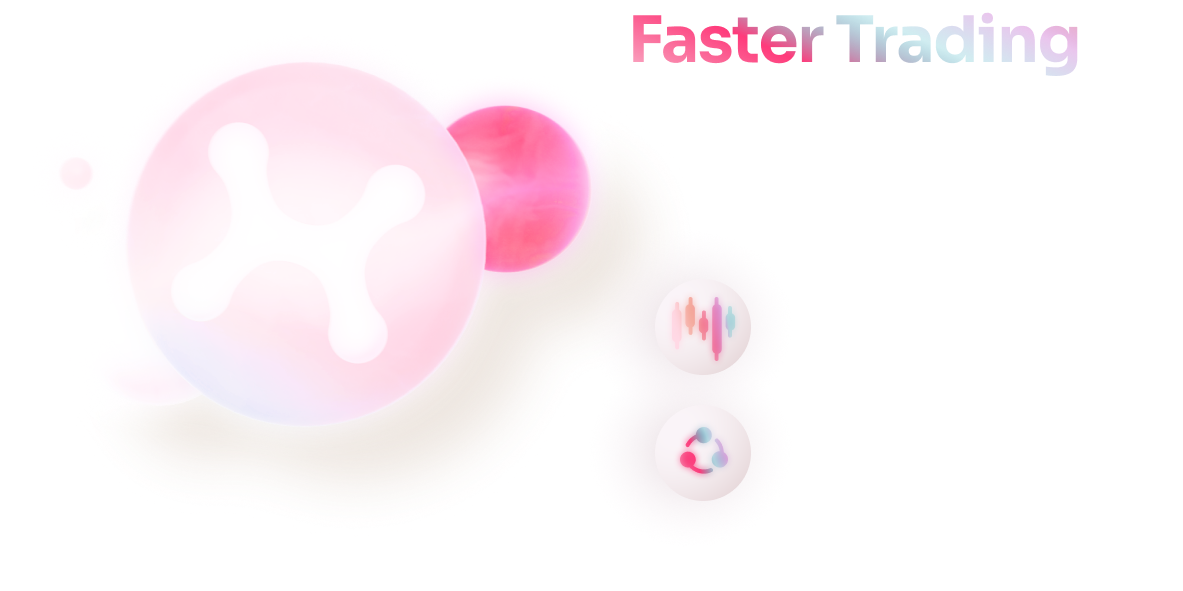
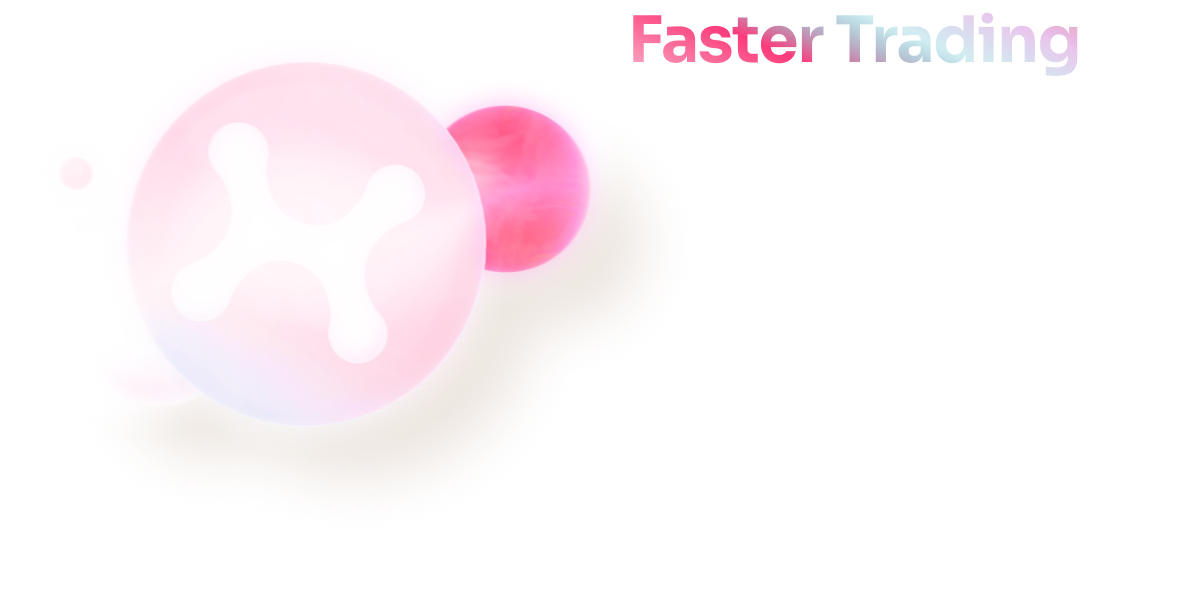
feat: correct version fonts

Changed region(s): [[0.5478, 0.4873, 0.6391, 0.6396], [0.5478, 0.7005, 0.6391, 0.8528]]

diff --git a/src/views/About.vue b/src/views/About.vue
@@ -2,59 +2,96 @@
   <div class="layout">
     <div class="content">
       <div class="about-1">
-        <img src="@/assets/about/about01.png" draggable="false" class="img unselectable"/>
+        <img src="@/assets/about/about01.png" draggable="false" class="img unselectable" />
         <div class="about-1-text">
-          <span class="text">Cross-chain exchange of assets, simple creation and listing of new assets, and the easiest swaps ever. The interoperable future of Polkadot is here and we are at the forefront!</span>
+          <span class="text">Cross-chain exchange of assets, simple creation and listing of new assets, and the easiest
+            swaps ever. The interoperable future of Polkadot is here and we are at the forefront!</span>
         </div>
-        <img src="@/assets/about/web3.png" draggable="false" class="web3 unselectable"/>
+        <img src="@/assets/about/web3.png" draggable="false" class="web3 unselectable" />
       </div>
       <div class="about-2">
-        <img src="@/assets/about/about02.png" draggable="false" class="unselectable" style="width: 60%">
+        <img src="@/assets/about/about02.png" draggable="false" class="unselectable">
         <div class="about-2-text-1">
-          <span class="text">Polkaswap is a non-custodial, cross-chain AMM DEX protocol for swapping tokens based on Polkadot and Kusama relay chains, Polkadot and Kusama parachains, and blockchains directly connected via bridges.</span>
+          <span class="text">Polkaswap is a non-custodial, cross-chain AMM DEX protocol for swapping tokens based on
+            Polkadot and Kusama relay chains, Polkadot and Kusama parachains, and blockchains directly connected via
+            bridges.</span>
         </div>
         <div class="about-2-text-2">
-          <span class="text">Polkaswap removes trusted intermediaries and provides the opportunity for faster trading</span>
+          <div class="bubble-block">
+            <img src="@/assets/about/about02-1.png" draggable="false" class="unselectable" style="width: 30%">
+            <span class="text">Polkaswap removes trusted intermediaries and provides the opportunity for faster
+              trading</span>
+          </div>
         </div>
         <div class="about-2-text-3">
-          <span class="text">Polkaswap is a community project and devs collaborate on the open source code using the <a href="https://en.wikipedia.org/wiki/BSD_licenses#4-clause_license_(original_%22BSD_License%22)" title="BSD 4-clause license">BSD 4-clause license</a></span>
+          <div class="bubble-block">
+            <img src="@/assets/about/about02-2.png" draggable="false" class="unselectable" style="width: 30%">
+            <span class="text">Polkaswap is a community project and devs collaborate on the open source code using the
+              <a href="https://en.wikipedia.org/wiki/BSD_licenses#4-clause_license_(original_%22BSD_License%22)" title="BSD 4-clause license">BSD 4-clause license</a></span>
+          </div>
         </div>
       </div>
       <div class="about-3">
-        <img src="@/assets/about/about03.png" draggable="false" class="unselectable" style="width: 60%">
+        <img src="@/assets/about/about03.png" draggable="false" class="unselectable">
         <div class="about-3-text-1">
-          <span class="text">Polkaswap combines multiple liquidity sources under a common liquidity aggregation algorithm, operating completely on-chain, in a trustless and decentralized way.</span>
+          <span class="text">Polkaswap combines multiple liquidity sources under a common liquidity aggregation
+            algorithm, operating completely on-chain, in a trustless and decentralized way.</span>
         </div>
         <div class="about-3-text-2">
-          <span class="text">When traders call the swap function, the liquidity aggregation algorithm will fill orders using the best offers across all liquidity sources. Liquidity sources can be other DEXs, order books, or other API-driven sources.</span>
+          <div class="bubble-block">
+            <img src="@/assets/about/about03-1.png" draggable="false" class="unselectable" style="width: 30%">
+            <span class="text">When traders call the swap function, the liquidity aggregation algorithm will fill orders
+              using the best offers across all liquidity sources. Liquidity sources can be other DEXs, order books, or
+              other API-driven sources.</span>
+          </div>
         </div>
         <div class="about-3-text-3">
-          <span class="text">Because Polkaswap is an open-source project, anyone can add more liquidity sources by making contributions to the Polkaswap codebase.</span>
+          <div class="bubble-block">
+            <img src="@/assets/about/about03-2.png" draggable="false" class="unselectable" style="width: 30%">
+            <span class="text">Because Polkaswap is an open-source project, anyone can add more liquidity sources by
+              making contributions to the Polkaswap codebase.</span>
+          </div>
         </div>
       </div>
       <div class="about-4">
-        <img src="@/assets/about/about04.png" draggable="false" class="unselectable" style="width: 60%">
+        <img src="@/assets/about/about04.png" draggable="false" class="unselectable">
         <div class="about-4-text-1">
-          <span class="text">Go beyond the limits of current DEXs by adding tokens from the Polkadot ecosystem as well as other blockchains.</span>
+          <span class="text">Go beyond the limits of current DEXs by adding tokens from the Polkadot ecosystem as well
+            as other blockchains.</span>
         </div>
         <div class="about-4-text-2">
-          <span class="text">Create, list and trade your own tokens on the SORA network.</span>
+          <div class="bubble-block">
+            <img src="@/assets/about/about04-1.png" draggable="false" class="unselectable" style="width: 30%">
+            <span class="text">Create, list and trade your own tokens on the SORA network.</span>
+          </div>
         </div>
         <div class="about-4-text-3">
-          <span class="text">Our core infrastructure uses Parity Substrate, which is more scalable than Ethereum, and does not use expensive mining for consensus.</span>
+          <div class="bubble-block">
+            <img src="@/assets/about/about04-2.png" draggable="false" class="unselectable" style="width: 30%">
+            <span class="text">Our core infrastructure uses Parity Substrate, which is more scalable than Ethereum, and
+              does not use expensive mining for consensus.</span>
+          </div>
         </div>
       </div>
       <div class="about-5">
-        <img src="@/assets/about/about05.png" draggable="false" class="unselectable" style="width: 60%">
+        <img src="@/assets/about/about05.png" draggable="false" class="unselectable">
         <div class="about-5-text-1">
-          <span class="text">PSWAP was created by community governance by voting on its release. It is a utility and governance token used to reward liquidity providers on Polkaswap. Unlike most other reward tokens, PSWAP is burned with transactions and decreases in supply over time.</span>
+          <span class="text">PSWAP was created by community governance by voting on its release. It is a utility and
+            governance token used to reward liquidity providers on Polkaswap. Unlike most other reward tokens, PSWAP is
+            burned with transactions and decreases in supply over time.</span>
         </div>
         <div class="about-5-text-2">
-          <span class="text">The 0.3% fee for every swap on the Polkaswap DEX is used to buy back PSWAP tokens, which are then burned. At first, 90% of burned PSWAP tokens are reminted to allocate to liquidity providers, but with time this percentage will decrease to 35% after 4 years.</span>
+          <div class="bubble-block">
+            <img src="@/assets/about/about05-1.png" draggable="false" class="unselectable" style="width: 30%">
+            <span class="text">The 0.3% fee for every swap on the Polkaswap DEX is used to buy back PSWAP tokens, which
+              are then burned. At first, 90% of burned PSWAP tokens are reminted to allocate to liquidity providers, but
+              with time this percentage will decrease to 35% after 4 years.</span>
+          </div>
         </div>
-        <div class="about-5-text-3">
+        <!-- <div class="about-5-text-3">
+          <img src="@/assets/about/about05-2.png" draggable="false" class="unselectable">
           <span class="text"></span>
-        </div>
+        </div> -->
       </div>
       <div class="about-6">
         <img src="@/assets/about/about06.png" draggable="false" class="unselectable" style="width: 70%; cursor: pointer;">
@@ -63,17 +100,20 @@
         <div class="about-7-part" @click="openLink('https://sora.org/validator')">
           <img src="@/assets/about/about07-1.png" draggable="false" class="unselectable icon">
           <span class="title">Become a SORA Validator<img src="@/assets/about/about07-3.png" class="link"></span>
-          <span class="text">Secure the future of the SORA network and decentralized apps like Polkaswap, and earn rewards along the way by becoming a SORA validator.</span>
+          <span class="text">Secure the future of the SORA network and decentralized apps like Polkaswap, and earn
+            rewards along the way by becoming a SORA validator.</span>
         </div>
         <div class="about-7-part" @click="openLink('https://sora.org')">
           <img src="@/assets/about/about07-2.png" draggable="false" class="unselectable icon">
           <span class="title">Connect a Chain to SORA<img src="@/assets/about/about07-3.png" class="link"></span>
-          <span class="text">Grow the decentralized world economy by connecting more chains to SORA and Polkaswap using the HASHI bridge protocol.</span>
+          <span class="text">Grow the decentralized world economy by connecting more chains to SORA and Polkaswap using
+            the HASHI bridge protocol.</span>
         </div>
       </div>
       <div class="about-8">
-        <img src="@/assets/about/about08.png" draggable="false" class="unselectable" style="width: 60%">
-        <span class="text" style="width: 55%; text-align: center;">Polkaswap is built on the SORA Network, focusing on interoperability to connect the rest of the crypto ecosystem to Polkadot.</span>
+        <img src="@/assets/about/about08.png" draggable="false" class="unselectable" style="width: 65%">
+        <span class="text" style="width: 55%; text-align: center;">Polkaswap is built on the SORA Network, focusing on
+          interoperability to connect the rest of the crypto ecosystem to Polkadot.</span>
       </div>
     </div>
   </div>
@@ -93,6 +133,13 @@ export default class About extends Mixins(TranslationMixin) {
 </script>
 
 <style lang="scss" scoped>
+@mixin backgroundImageWidth {
+  &>:first-child {
+    width: 80%;
+    min-width: 800px;
+  }
+}
+
 .content {
   display: flex;
   flex-direction: column;
@@ -104,6 +151,7 @@ export default class About extends Mixins(TranslationMixin) {
   user-select: none;
 }
 .img {
+  min-width: 1200px;
   max-width: 1600px;
   width: 100%;
 }
@@ -115,13 +163,24 @@ export default class About extends Mixins(TranslationMixin) {
   right: 5%;
 }
 
+.bubble-block {
+  display: flex;
+  align-items: center;
+
+  &>:first-child {
+    max-width: 120px;
+  }
+}
+
 .about {
+  margin: auto;
   &-1 {
     display: flex;
     justify-content: center;
     align-items: center;
     flex-direction: column;
     position: relative;
+
     &-text {
       top: 60%;
       width: 35%;
@@ -131,116 +190,133 @@ export default class About extends Mixins(TranslationMixin) {
     }
   }
   &-2 {
+    min-width: 800px;
+    padding-top: 5rem;
     display: flex;
     justify-content: center;
     align-items: center;
     flex-direction: column;
     position: relative;
+
+    @include backgroundImageWidth;
+
     &-text-1 {
-      top: 16%;
-      right: 12.5%;
-      width: 35%;
+      top: 26%;
+      right: 7.5%;
+      width: 40%;
 
       position: absolute;
     }
     &-text-2 {
-      top: 47%;
-      right: 20.5%;
-      width: 20%;
+      top: 38%;
+      right: 5.5%;
+      width: 45%;
 
       position: absolute;
     }
     &-text-3 {
-      top: 68%;
-      right: 20.5%;
-      width: 20%;
+      top: 54%;
+      right: 5.5%;
+      width: 45%;
 
       position: absolute;
     }
   }
   &-3 {
+    min-width: 800px;
     display: flex;
     justify-content: center;
     align-items: center;
     flex-direction: column;
     position: relative;
+
+    @include backgroundImageWidth;
+
     &-text-1 {
       top: 49.5%;
-      left: 22%;
-      width: 28%;
+      left: 12.5%;
+      width: 35%;
 
       position: absolute;
     }
     &-text-2 {
-      top: 65%;
-      left: 28.5%;
-      width: 37%;
+      top: 60%;
+      left: 9%;
+      width: 55%;
 
       position: absolute;
     }
     &-text-3 {
-      top: 81.5%;
-      left: 28.5%;
-      width: 34%;
+      top: 75%;
+      left: 9%;
+      width: 55%;
 
       position: absolute;
     }
   }
   &-4 {
+    min-width: 800px;
     display: flex;
     justify-content: center;
     align-items: center;
     flex-direction: column;
     position: relative;
+
+    @include backgroundImageWidth;
+
     &-text-1 {
       top: 20%;
-      right: 25%;
-      width: 23%;
+      right: 7.5%;
+      width: 40%;
 
       position: absolute;
     }
     &-text-2 {
-      top: 49%;
-      right: 20.5%;
-      width: 20%;
+      top: 27%;
+      right: 5.5%;
+      width: 45%;
 
       position: absolute;
     }
     &-text-3 {
-      top: 66%;
-      right: 20.5%;
-      width: 20%;
+      top: 52%;
+      right: 5.5%;
+      width: 45%;
 
       position: absolute;
     }
   }
   &-5 {
+    min-width: 800px;
     display: flex;
-    justify-content: center;
+    justify-content: flex-start;
     align-items: center;
     flex-direction: column;
     position: relative;
+
+    @include backgroundImageWidth;
+
     &-text-1 {
       top: 30%;
-      right: 35.5%;
-      width: 31%;
+      right: 32%;
+      width: 40%;
 
       position: absolute;
     }
     &-text-2 {
-      top: 56%;
-      right: 19.5%;
-      width: 39%;
+      top: 55%;
+      left: 24%;
+      width: 65%;
 
       position: absolute;
     }
-    &-text-3 {
-      top: 66%;
-      right: 20.5%;
-      width: 20%;
+    // &-text-3 {
+    //   top: 66%;
+    //   right: 20.5%;
+    //   width: 20%;
 
-      position: absolute;
-    }
+    //   position: absolute;
+    // }
   }
   &-6 {
     display: flex;
@@ -250,7 +326,8 @@ export default class About extends Mixins(TranslationMixin) {
     position: relative;
   }
   &-7 {
-    width: 55%;
+    width: 70%;
+    max-width: 1600px;
     padding-top: 7rem;
 
     display: grid;
@@ -317,7 +394,11 @@ export default class About extends Mixins(TranslationMixin) {
 
   color: #2A171F;
 
-  @media screen and (min-width: 1550px) {
+  @media screen and (min-width: 1500px) {
+    font-size: 16px;
+  }
+
+  @media screen and (min-width: 1200px) {
     font-size: 14px;
   }
 }

diff --git a/src/App.vue b/src/App.vue
@@ -583,7 +583,7 @@ $disclaimer-letter-spacing: -0.03em;
   background-image: url('~@/assets/img/pswap.svg');
   background-size: cover;
   width: var(--s-size-medium);
-  height: var(--s-size-medium);
+  min-height: var(--s-size-medium);
   padding: 0;
   border-radius: 0;
 }
